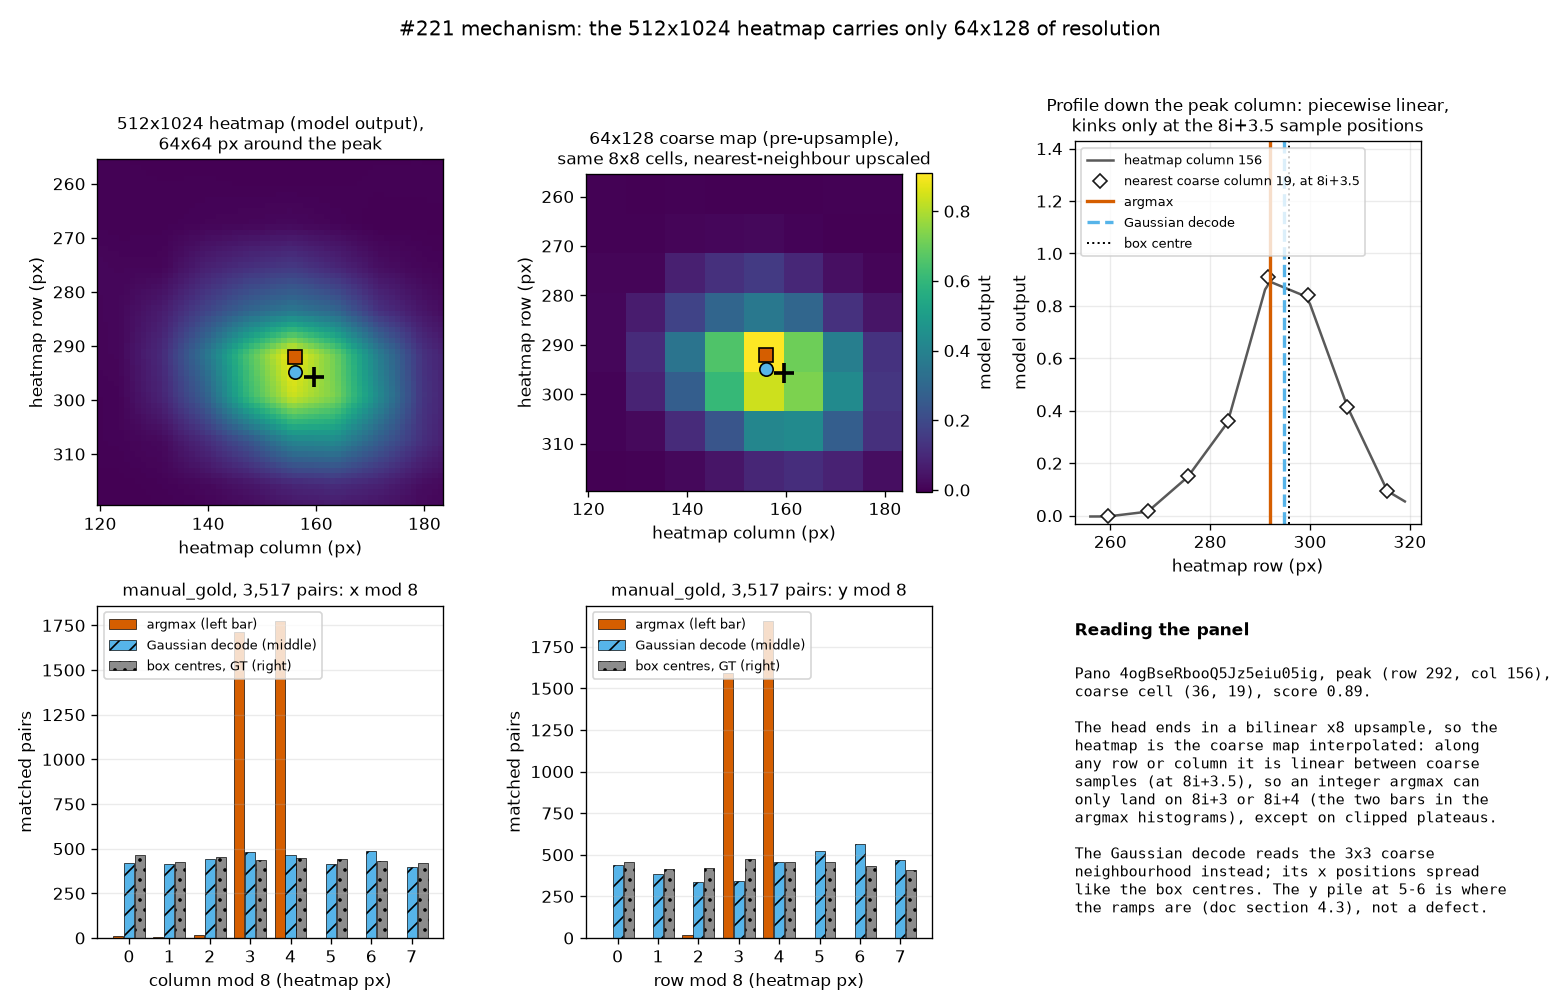
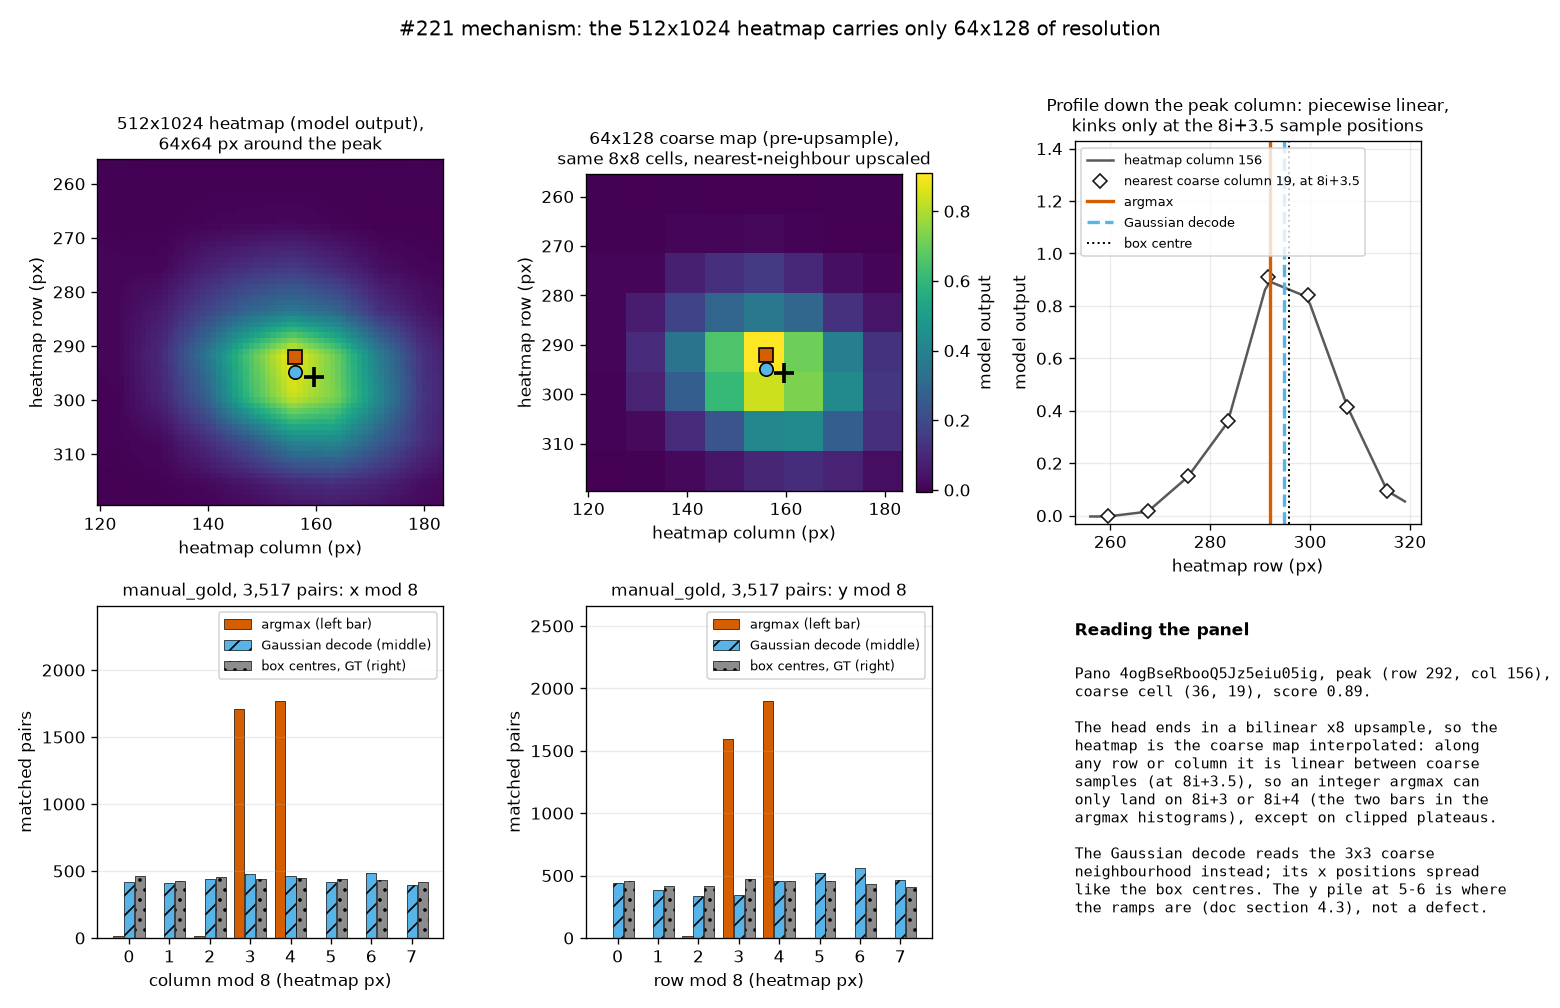
subcell decode (#221): final re-review nits N-a..N-d
- figures script: load and check the coarse map before writing anything,
  so a failed check leaves --out-dir untouched (N-a)
- mechanism panel: histogram legends upper right with 1.4x headroom so
  they clear the argmax bars at 3 and 4; re-rendered from the makelab2
  A40 coarse map, contact sheet byte-identical (N-d)
- doc section 8: both figure sha256s; the neighbourhood gap (~1.55e-05)
  is the run's-map check, the 2.15e-07 clean-clone print is a different
  quantity (N-b)
- docs/README.md: 99.0% is manual_gold peak columns (N-c)

diff --git a/scripts/analysis/subcell_decode_221_figures.py b/scripts/analysis/subcell_decode_221_figures.py
@@ -377,7 +377,10 @@ def mechanism(p, coarse, heat, heat_label, mod8, path):
         ax.set_title(f"manual_gold, {sum(mod8[axis]['argmax']):,} pairs: {axis} mod 8",
                      fontsize=10)
         ax.grid(axis="y", alpha=0.25)
-        ax.legend(fontsize=8, loc="upper left")
+        # Headroom above the tallest bar so the legend clears the argmax bars at 3 and 4
+        # (the legend is wider than columns 5-7, so moving it sideways alone is not enough).
+        ax.set_ylim(0, 1.4 * max(max(mod8[axis][m]) for m, *_ in series))
+        ax.legend(fontsize=8, loc="upper right")
     axn = fig.add_subplot(gs[1, 2])
     axn.axis("off")
     axn.text(0, 0.95, "Reading the panel", fontsize=10, weight="bold", va="top")
@@ -436,9 +439,8 @@ def main(argv=None):
         raise SystemExit("--panos-root and --out-dir are required unless --select-only")
     if not a.coarse_dir and a.heatmap_source != "model":
         raise SystemExit("--coarse-dir is required unless --heatmap-source model")
-    os.makedirs(a.out_dir, exist_ok=True)
-    contact_sheet(picks, info, a.panos_root,
-                  os.path.join(a.out_dir, "examples_contact_sheet.jpg"))
+    # Load and check the coarse map before writing anything, so a failed check leaves
+    # --out-dir untouched rather than holding a new contact sheet and a stale panel.
     mp = next(p for p in picks if p["category"] == "typical")
     rec = D["panos"]["manual_gold"][mp["pano"]]
     heat = model_heatmap(a.panos_root, mp["pano"]) if a.heatmap_source == "model" else None
@@ -456,6 +458,9 @@ def main(argv=None):
         label = "model output"
     else:
         heat, label = sc.upsample(coarse), "bilinear upsample of the coarse map"
+    os.makedirs(a.out_dir, exist_ok=True)
+    contact_sheet(picks, info, a.panos_root,
+                  os.path.join(a.out_dir, "examples_contact_sheet.jpg"))
     mod8 = {ax: {} for ax in ("x", "y")}
     for m in ("argmax", "gaussian"):
         xy = np.array([p[m] for p in pairs])

diff --git a/docs/README.md b/docs/README.md
@@ -82,7 +82,7 @@ Supporting directories (not indexed row by row):
 | [`two_scale_197.md`](two_scale_197.md) | #197, #25 | negative result | final | Two-scale inference (near field from 1×, far field from 2× upsampled), pre-stated primary: HURTS, ΔF1 −0.018 over the eight US splits; a threshold alone reaches the same recall for fewer false positives. | `scripts/analysis/two_scale_197.py` (check) |
 | [`laurens_paired_151.md`](laurens_paired_151.md) | #151 | result | final | Laurens paired on the corners both rigs saw: RampNet's own rig effect survives pairing (ΔF1 +0.112), but that RampNet is more rig-sensitive than the YOLO pano arms is not established. | `scripts/analysis/laurens_paired_151.py` (check) |
 | [`da3_calibration_101.md`](da3_calibration_101.md) | #101, #112 | result | final | Depth Anything 3 calibrated against GSV depth: DA3 reads range ~10.6% longer than Google's (median 1.106); pooled the difference is a scale, on Google's 2025–26 rig it is not. | `scripts/analysis/da3_calibration_101.py` (check) |
-| [`subcell_decode_221.md`](subcell_decode_221.md) | #221 | result | final | The released model puts 99.0% of peaks on hi-res pixel 3 or 4 mod 8; a Gaussian decode from each peak's 3x3 coarse neighbourhood moves detections toward the human box centres on all five splits measured (CI excludes zero on four), by -0.727 px [-0.783, -0.673] on `manual_gold`, and no detection metric moves. | `scripts/analysis/subcell_decode_221.py` (no check) re-derives `results.json` from the committed detections, and its `compare` subcommand diffs a re-run against it; `scripts/analysis/subcell_decode_221_figures.py` (no check) draws the Examples figures |
+| [`subcell_decode_221.md`](subcell_decode_221.md) | #221 | result | final | The released model puts 99.0% of `manual_gold` peak columns on hi-res pixel 3 or 4 mod 8; a Gaussian decode from each peak's 3x3 coarse neighbourhood moves detections toward the human box centres on all five splits measured (CI excludes zero on four), by -0.727 px [-0.783, -0.673] on `manual_gold`, and no detection metric moves. | `scripts/analysis/subcell_decode_221.py` (no check) re-derives `results.json` from the committed detections, and its `compare` subcommand diffs a re-run against it; `scripts/analysis/subcell_decode_221_figures.py` (no check) draws the Examples figures |
 
 ## Multi-view & auto-labeler
 

diff --git a/docs/subcell_decode_221.md b/docs/subcell_decode_221.md
@@ -475,11 +475,19 @@ python scripts/analysis/subcell_decode_221_figures.py --panos-root D:/Git/RampNe
     --out-dir docs/figures/subcell_decode_221
 ```
 
-Re-running that command reproduces both committed figures byte for byte. The clean-clone command
-above draws the same contact sheet byte for byte (it uses no coarse map). Its mechanism panel
-differs in bytes, because its coarse map is recovered from a heatmap computed on another GPU,
-which differs from the A40 map by about 2e-5. `--out-dir` is required, so the figure script
-cannot overwrite the committed figures unless told to.
+Re-running that command reproduces both committed figures byte for byte:
[2 lines of base64/hex data omitted]
+The clean-clone command above draws the same contact sheet byte for byte (it uses no coarse map).
+Its mechanism panel differs in bytes, because its coarse map is recovered from a heatmap computed
+on another GPU, which differs from the A40 map by about 2e-5. On that path the number that shows
+the coarse map is the run's is the printed neighbourhood gap (about 1.55e-05 on the desktop,
+against the 2e-4 tolerance); the `max |model heatmap - upsample(coarse)|` it also prints (about
+2.15e-07) is a different quantity, which only checks the recovered map against the heatmap it
+came from, and the 2.0e-5 quoted in Examples is that quantity on the as-run path. The script
+checks the coarse map before it writes anything, so a failed check leaves `--out-dir` untouched.
+`--out-dir` is required, so the figure script cannot overwrite the committed figures unless told
+to.
 
[1 lines of base64/hex data omitted]
 holds every peak >= 0.30 with its 3x3 coarse neighbourhood (6 decimals), so `report` needs neither
